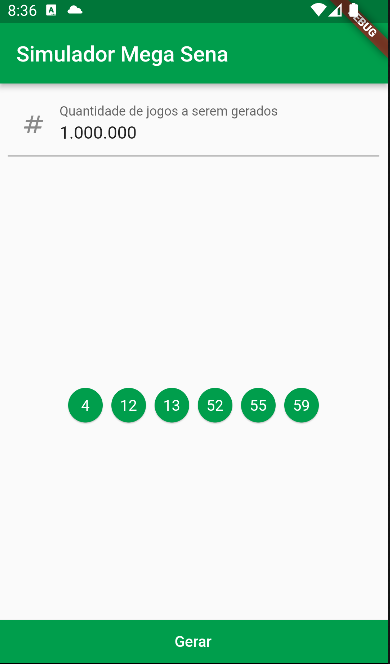
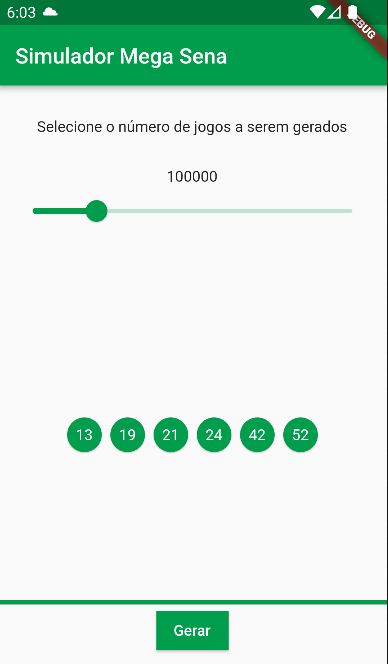
Added coroutines

diff --git a/lib/app/pages/home_page/home_page_state.dart b/lib/app/pages/home_page/home_page_state.dart
@@ -1,35 +1,71 @@
+import 'dart:async';
+import 'dart:isolate';
+
 import 'package:flutter/material.dart';
 import 'package:flutter_mega_sena_simulator/app/components/generate_button_widget.dart';
-import 'package:flutter_mega_sena_simulator/app/components/number_input_widget.dart';
 import 'package:flutter_mega_sena_simulator/app/components/result_number_widget.dart';
 import 'package:flutter_mega_sena_simulator/app/modules/mega_sena/mega_sena.dart';
 import 'package:flutter_mega_sena_simulator/app/pages/home_page/home_page.dart';
 import 'package:flutter_modular/flutter_modular.dart';
-import 'package:mask_text_input_formatter/mask_text_input_formatter.dart';
 
 class HomePageState extends State<HomePage> {
-  final _formKey = GlobalKey<FormState>();
-  final _numberController = TextEditingController(text: '1.000.000');
-  final _numberMaskFormatter = MaskTextInputFormatter(
-    mask: '###.###.###.###.###.###.###.###.###',
-    filter: {"#": RegExp(r'[0-9]')},
-    type: MaskAutoCompletionType.lazy,
-    initialText: '1.000.000',
-  );
+  double _gameRounds = 100000;
 
-  List<int> _numbers = [];
+  List<int> _game = [];
+  int _interation = 0;
+  double _progress = 0.0;
+  String _gameStatus = 'not_started';
+  Isolate? _isolate;
+  final ReceivePort _receivePort = ReceivePort();
+  late StreamSubscription _subscription;
 
   final MegaSena _megaSena = Modular.get();
 
-  int _getNumber() {
-    return int.parse(_numberMaskFormatter.getUnmaskedText());
+  Future<void> _generateNewNumbers() async {
+    _isolate = await Isolate.spawn(
+      _megaSena.asyncGenerateGames,
+      [
+        _receivePort.sendPort,
+        _gameRounds.round(),
+      ],
+    );
   }
 
-  void _generateNewNumbers() {
-    setState(() {
-      _numbers =
-          _megaSena.generateAndGetMostFrequentNumbers(quantity: _getNumber());
-    });
+  void _handlerGame(dynamic payload) {
+    _interation++;
+
+    final String type = payload['type'];
+    final String status = payload['status'];
+    final List<int> value = payload['value'];
+    final double progress = payload['progress'];
+
+    if (type == 'update_status') {
+      _gameStatus = status;
+    }
+
+    final bool interationMultiple = _interation % 5 != 0;
+    final bool shouldBeUpdateValue =
+        interationMultiple || _gameStatus == 'finished';
+
+    if (type == 'update_result' || shouldBeUpdateValue) {
+      setState(() {
+        _game = value;
+        _progress = progress;
+      });
+    }
+  }
+
+  @override
+  void initState() {
+    super.initState();
+    _subscription = _receivePort.listen(_handlerGame);
+  }
+
+  @override
+  void dispose() {
+    _subscription.cancel();
+    _isolate?.kill();
+    super.dispose();
   }
 
   @override
@@ -39,32 +75,40 @@ class HomePageState extends State<HomePage> {
         title: Text(widget.title),
       ),
       body: Padding(
-        padding: const EdgeInsets.all(8.0),
+        padding: const EdgeInsets.symmetric(vertical: 30, horizontal: 8),
         child: Center(
           child: Column(
             mainAxisAlignment: MainAxisAlignment.start,
             children: [
-              Form(
-                key: _formKey,
-                child: NumberInputWidget(
-                  controller: _numberController,
-                  maskFormatter: _numberMaskFormatter,
+              const Text('Selecione o número de jogos a serem gerados'),
+              Padding(
+                padding: const EdgeInsets.only(
+                  top: 30,
                 ),
+                child: Text(_gameRounds.round().toString()),
+              ),
+              Slider(
+                value: _gameRounds,
+                max: 500000,
+                divisions: 1000,
+                label: _gameRounds.round().toString(),
+                onChanged: (double value) {
+                  setState(() {
+                    _gameRounds = value;
+                  });
+                },
               ),
               Expanded(
-                flex: 1,
-                child: ResultNumberWidget(numbers: _numbers),
+                child: ResultNumberWidget(numbers: _game),
               )
             ],
           ),
         ),
       ),
       bottomSheet: GenerateButtonWidget(
-        formKey: _formKey,
+        progress: _progress,
         onPressed: () async {
-          if (_formKey.currentState?.validate() == true) {
-            _generateNewNumbers();
-          }
+          _generateNewNumbers();
         },
       ),
     );

diff --git a/lib/app/modules/mega_sena/mega_sena.dart b/lib/app/modules/mega_sena/mega_sena.dart
@@ -1,49 +1,68 @@
+import 'dart:isolate';
 import 'dart:math';
 
-import 'package:flutter_mega_sena_simulator/app/modules/mega_sena/most_frequent_numbers.dart';
-import 'package:flutter_mega_sena_simulator/app/modules/mega_sena/number_generator.dart';
+import 'package:flutter/cupertino.dart';
+import 'package:flutter_mega_sena_simulator/app/pages/home_page/home_page_state.dart';
 
-class MegaSena implements NumberGenerator, MostFrequentNumbers {
-  int maxNumber = 60;
-  Map<int, int> numberWithCounter = {};
+class MegaSena {
+  final Map<int, int> _numberFrequency = {};
+  final gameDisplayKey = GlobalKey<HomePageState>();
 
-  @override
-  void generateNumbers(int quantity) async {
-    numberWithCounter = {};
-    final numbers = <int>[];
+  void generateGame() {
+    var random = Random();
+    var game = <int>{};
+    for (int i = 0; i < 6; i++) {
+      int number = random.nextInt(60) + 1;
+      game.add(number);
+      _numberFrequency[number] = (_numberFrequency[number] ?? 0) + 1;
+    }
+  }
+
+  List<int> getMostGeneratedNumbers({int quantity = 6}) {
+    final counts = _numberFrequency.entries.toList(growable: false)
+      ..sort((entry1, entry2) => entry2.value.compareTo(entry1.value));
+    return counts.take(quantity).map((entry) => entry.key).toList()..sort();
+  }
+
+  void reset() {
+    _numberFrequency.clear();
+  }
+
+  Future<void> asyncGenerateGames(List<dynamic> arguments) async {
+    final SendPort sendPort = arguments.first;
+    final int quantity = arguments.last;
+
+    sendPort.send({
+      'type': 'update_status',
+      'status': 'started',
+      'value': [0],
+      'progress': 0,
+    });
+
+    reset();
 
     for (int i = 0; i < quantity; i++) {
-      final number = Random().nextInt(maxNumber) + 1;
-      numbers.add(number);
+      generateGame();
+      sendPort.send({
+        'type': 'update_result',
+        'status': 'running',
+        'value': getMostGeneratedNumbers(),
+        'progress': _calculateProgress(value: i, total: quantity)
+      });
     }
 
-    for (final number in numbers) {
-      numberWithCounter[number] = (numberWithCounter[number] ?? 0) + 1;
-    }
+    sendPort.send({
+      'type': 'update_status',
+      'status': 'finished',
+      'value': getMostGeneratedNumbers(),
+      'progress': 1.0,
+    });
   }
 
-  @override
-  List<int> getMostFrequentNumbers(int quantity) {
-    final sortedCounts = numberWithCounter.entries.toList(growable: false)
-      ..sort((entry1, entry2) => entry2.value.compareTo(entry1.value));
-    return sortedCounts.take(quantity).map((entry) => entry.key).toList()
-      ..sort();
-  }
-
-  List<int> generateAndGetMostFrequentNumbers({
-    int quantity = 100000,
-    int mostFrequentQuantity = 6,
+  double _calculateProgress({
+    required int value,
+    required int total,
   }) {
-    generateNumbers(quantity);
-    return getMostFrequentNumbers(mostFrequentQuantity);
-  }
-
-  MegaSena setMaxNumber(int maxNumber) {
-    if (maxNumber < 1) {
-      throw Exception('The maximum number must be greater than zero.');
-    }
-    this.maxNumber = maxNumber;
-
-    return this;
+    return value / total;
   }
 }

diff --git a/lib/app/components/generate_button_widget.dart b/lib/app/components/generate_button_widget.dart
@@ -1,26 +1,35 @@
 import 'package:flutter/material.dart';
 
 class GenerateButtonWidget extends StatelessWidget {
-  final GlobalKey<FormState> formKey;
   final void Function() onPressed;
+  final double progress;
 
-  const GenerateButtonWidget(
-      {super.key, required this.formKey, required this.onPressed});
+  const GenerateButtonWidget({
+    super.key,
+    required this.onPressed,
+    required this.progress,
+  });
 
   @override
   Widget build(BuildContext context) {
     return SizedBox(
-      height: 40,
-      width: double.infinity,
-      child: ElevatedButton(
-        onPressed: onPressed,
-        style: ElevatedButton.styleFrom(
-          shape: const RoundedRectangleBorder(
-            borderRadius: BorderRadius.zero,
-          ),
-        ),
-        child: const Text('Gerar'),
-      ),
-    );
+        height: 60,
+        width: double.infinity,
+        child: Column(
+          children: [
+            LinearProgressIndicator(
+              value: progress,
+            ),
+            ElevatedButton(
+              onPressed: onPressed,
+              style: ElevatedButton.styleFrom(
+                shape: const RoundedRectangleBorder(
+                  borderRadius: BorderRadius.zero,
+                ),
+              ),
+              child: const Text('Gerar'),
+            ),
+          ],
+        ));
   }
 }

diff --git a/README.md b/README.md
@@ -2,6 +2,11 @@
 
 Este projeto é um simulador de jogos da Mega Sena. Com ele é possível gerar números aleatórios e descobrir qual número é mais frequente.
 
+## Funcionamento
+1. Você deve especificar a quantidade de jogos a serem gerados
+
+2. O sistema escolhe os números que aparecem com mais frequencia em todos os jogos gerados
+
 ## Preview
 <img src="https://raw.githubusercontent.com/medeiroz/flutter-mega-sena-simulator/main/.github/screenshot-1.png" width="350"/>
 
